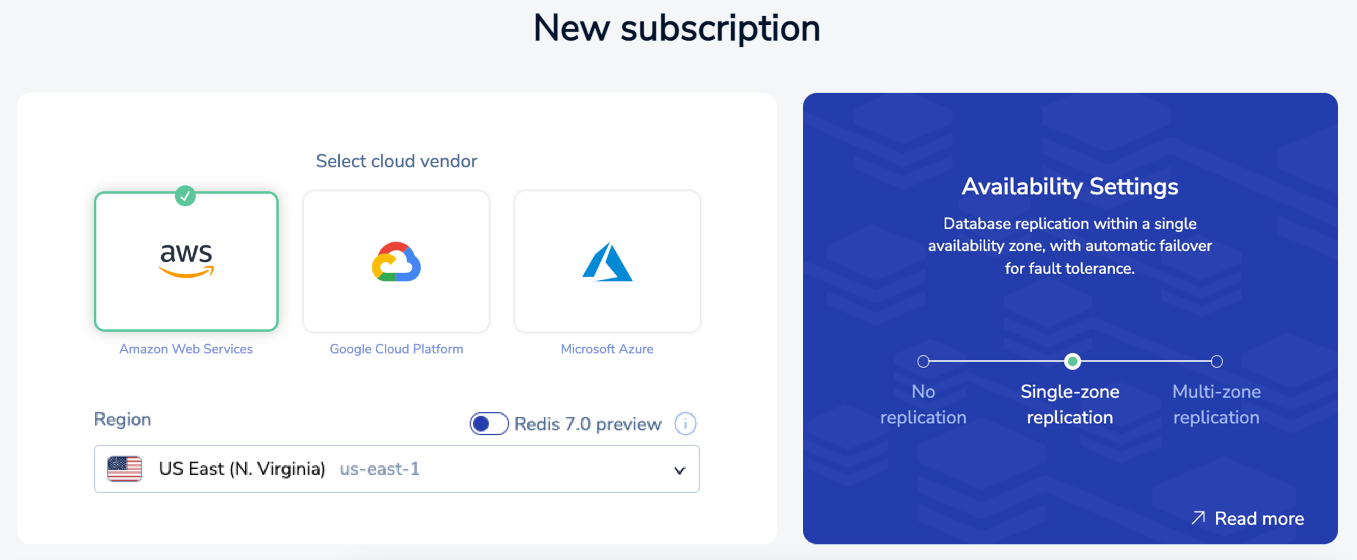
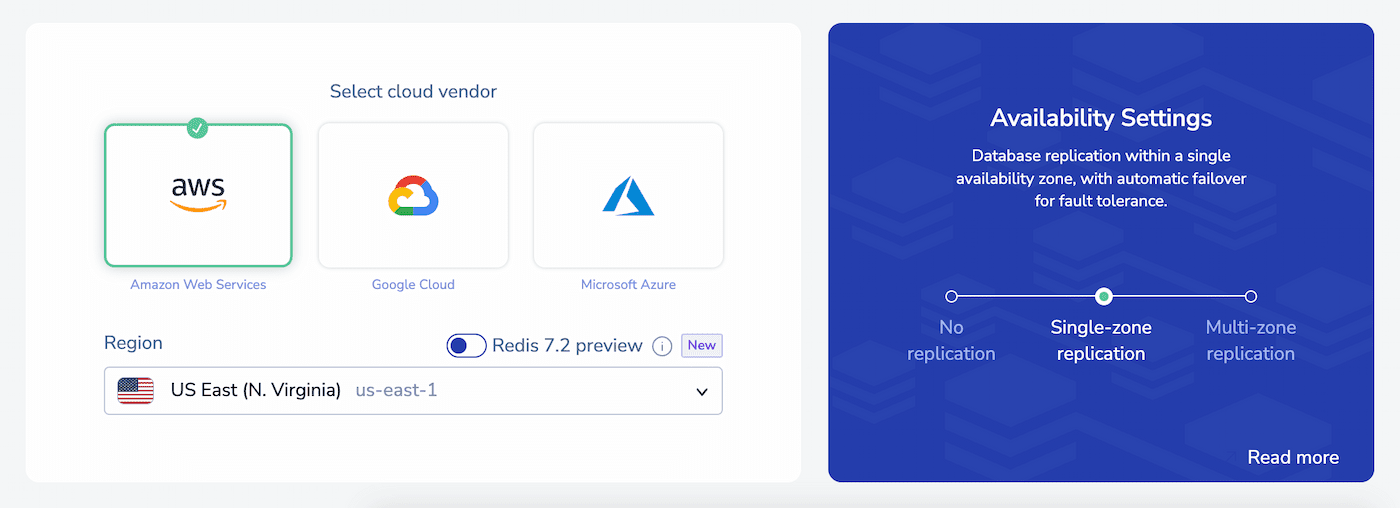
Added Redis 7.2 Preview toggle

diff --git a/content/rc/subscriptions/create-fixed-subscription.md b/content/rc/subscriptions/create-fixed-subscription.md
@@ -52,13 +52,13 @@ To create a [Fixed subscription]({{< relref "/rc/subscriptions/#subscription-pla
 
 3.  Choose a **Cloud Provider** and a **Region**.
 
-    {{<image filename="images/rc/subscription-new-cloud-vendor-options-redis-7-preview.png" alt="Available cloud vendor options and Redis 7 preview." >}}{{</image>}}
+    {{<image filename="images/rc/subscription-new-cloud-vendor-options-redis-7-preview.png" alt="Available cloud vendor options and Redis 7.2 preview." >}}{{</image>}}
 
-    A [preview of Redis 7.0]({{<relref "/rc/changelog/march-2023#redis-70-preview">}}) subscriptions is available for selected regions in AWS and GCP. However, some Redis 7.0 functionality might not be fully available during preview. Redis 7.0 also introduces several changes to existing Redis commands; see the list of [breaking changes]({{<relref "/rc/changelog/march-2023#redis-70-breaking-changes">}}) for more details.
+    A [preview of Redis 7.2]({{<relref "/rc/changelog/june-2023#redis-72-preview">}}) subscriptions is available for selected regions in AWS and GCP. Redis 7.2 introduces several changes to existing Redis commands; see the list of [breaking changes]({{<relref "/rc/changelog/june-2023#redis-72-breaking-changes">}}) for more details.
     
-    If you want to try out Redis 7.0, turn on the **Redis 7.0 preview** toggle:
+    If you want to try out Redis 7.2, turn on the **Redis 7.2 preview** toggle:
 
-    {{<image filename="images/rc/subscription-new-redis-7-preview-toggle.png" width="200px" alt="Turn on the Redis 7 preview toggle." >}}{{< /image >}}
+    {{<image filename="images/rc/subscription-new-redis-7-preview-toggle.png" width="200px" alt="Turn on the Redis 7.2 preview toggle." >}}{{< /image >}}
 
 4.  In the **Availability Settings** panel, select your replication settings.  
 
